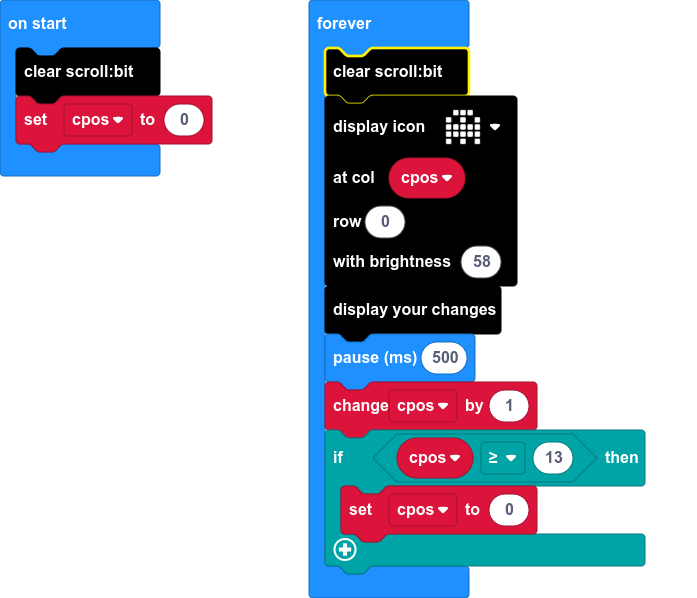
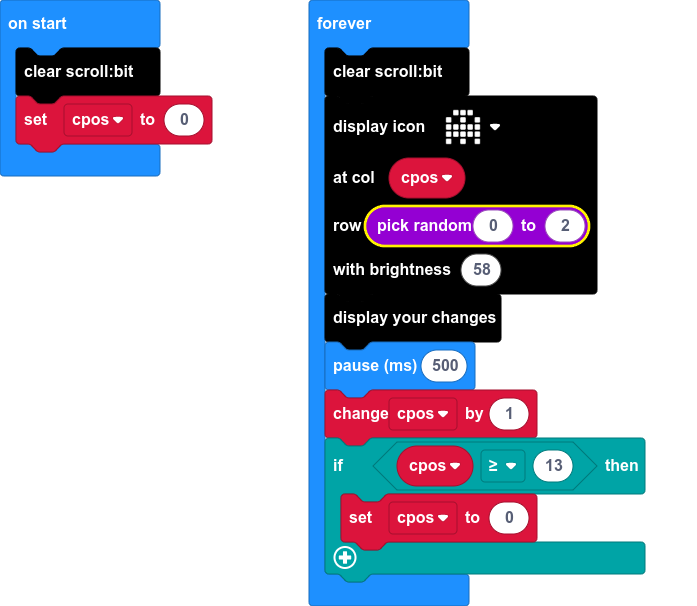
set random row

diff --git a/main.ts b/main.ts
@@ -5,7 +5,7 @@ basic.forever(function () {
     scrollbit.setIcon(
     IconNames.Ghost,
     cpos,
-    0,
+    randint(0, 2),
     58
     )
     scrollbit.show()
